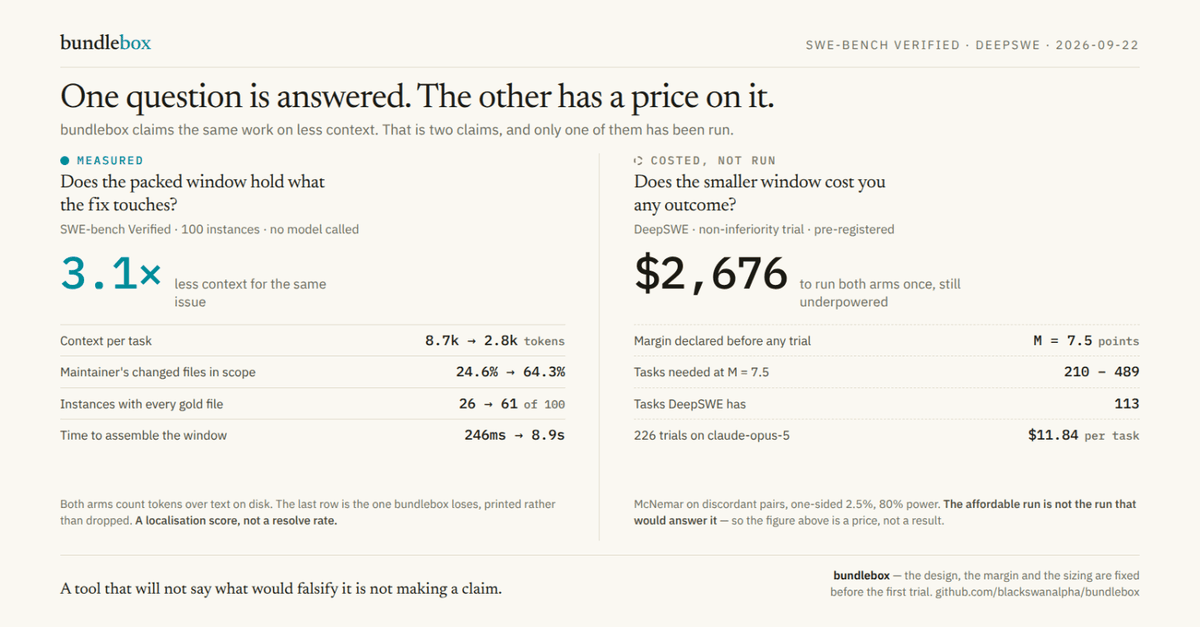
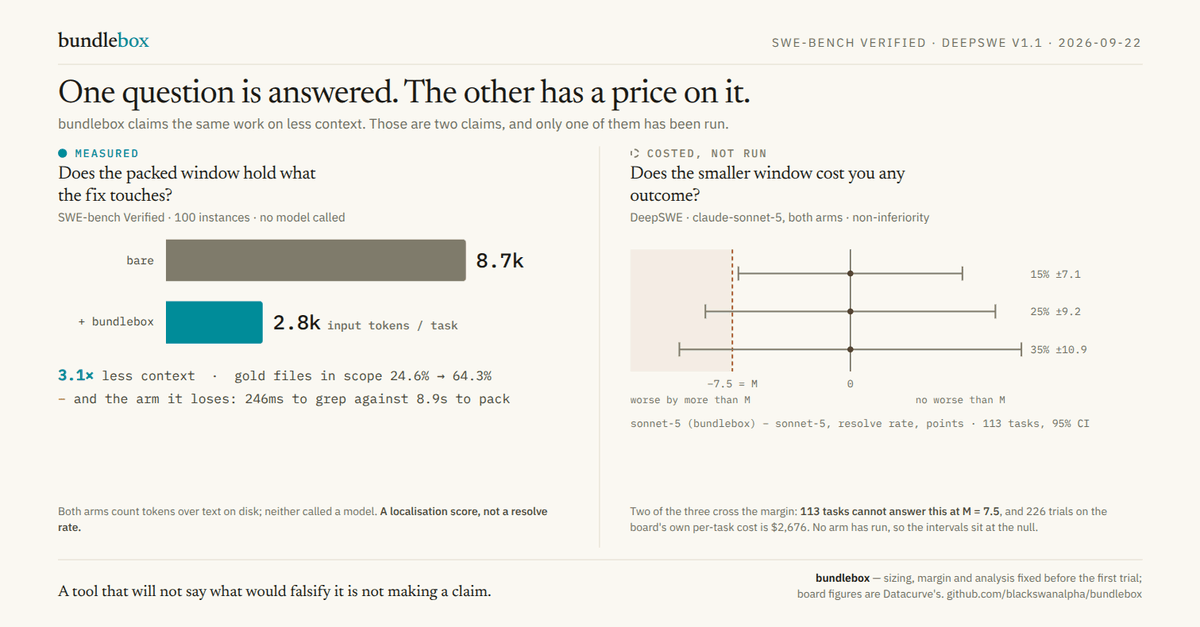
docs(marketing): post 8 gets the two charts its two claims need
The card carried two tables. A table lets a reader take a number off it, and
only one of the two columns has numbers to take.

Left is now a bar: 8.7k against 2.8k input tokens per task, SWE-bench Verified,
100 instances. A measured magnitude, drawn as one. It also carries the arm
bundlebox loses, 246ms to grep against 8.9s to pack.

Right is a non-inferiority plot, because there is no bundlebox row on DeepSWE
to bar-chart against claude-sonnet-5 and drawing one would invent the result
the post says costs $2,676. It plots what the declared design implies instead:
the margin at -7.5, and the 95% interval 113 tasks returns at three discordance
rates -- 7.1, 9.2 and 10.9 points. Two of the three cross the margin, which is
the finding. The intervals sit at the null because no arm has run.

The interval arithmetic is the sizing table read backwards:
1.96*sqrt(f/n) at n=113, from the same z and margin that give DESIGN.md's
210 / 349 / 489 at 80% power. Checked against all three rows.

claude-sonnet-5 at 54%+-4, $26.40, 214k, 268 steps confirmed against the live
board (v1.1, 113 tasks, 2026-09-22), which matches leaderboard.json. The board
column is OUTPUT tokens; the bar is INPUT context, so the two are labelled
apart and never multiplied together.

  1200x627, 77 KB, matching post-5 and post-7

diff --git a/marketing/post-8-two-questions-image.html b/marketing/post-8-two-questions-image.html
@@ -7,16 +7,16 @@
 <link rel="preconnect" href="https://fonts.gstatic.com" crossorigin>
 <link rel="stylesheet" href="https://fonts.googleapis.com/css2?family=IBM+Plex+Mono:wght@400;500&family=IBM+Plex+Sans:wght@400;500;600&family=Newsreader:opsz,wght@6..72,400;6..72,500&display=swap">
 <style>
-  /* The post-5/post-7 card, so the series reads as one thing. The colour does
-     one job here and it is not decoration: the accent marks the column that was
-     measured, the grey marks the one that was only costed. Identity is never
-     colour alone — each column carries its own STATUS word, its own rule style
-     (solid against dashed) and its own footer line, so the distinction survives
-     greyscale and survives a reader who cannot separate teal from grey.
+  /* The post-5/post-7 card. Two charts, and they are deliberately different
+     shapes because they are different kinds of claim: a measured magnitude is a
+     bar, an undecided difference is an interval against a margin. Drawing the
+     second one as a bar is what would let somebody read a result off it, and
+     there is no result to read.
 
-     Same contrast rule as post-7: figures wear ink, not accent. #008C99 on this
-     paper is 3.79:1 — fine for a 54px hero under the large-text rule, short of
-     4.5:1 for anything at body size. */
+     Colour never carries meaning alone. Each column has its own status word,
+     its own rule style (solid against dashed) and its own chart form, so the
+     distinction survives greyscale. Figures wear ink rather than the accent,
+     which is 3.79:1 on this paper. */
   :root {
     --paper: #FAF8F2;
     --ink: #191A14;
@@ -25,6 +25,7 @@
     --rule: #E0DACB;
     --accent: #008C99;
     --context: #7F7B6B;
+    --fail: #B04A28;
     --font-display: "Newsreader", Georgia, serif;
     --font-text: "IBM Plex Sans", Helvetica, sans-serif;
     --font-figure: "IBM Plex Mono", Consolas, monospace;
@@ -32,108 +33,126 @@
   * { box-sizing: border-box; }
   body { margin: 0; width: 1200px; height: 627px; background: var(--paper); color: var(--ink);
          font-family: var(--font-text); overflow: hidden; -webkit-font-smoothing: antialiased; }
-  .card { height: 100%; padding: 34px 60px 26px; display: flex; flex-direction: column; }
+  .card { height: 100%; padding: 32px 58px 24px; display: flex; flex-direction: column; }
 
-  .top { display: flex; align-items: baseline; justify-content: space-between; border-bottom: 1px solid var(--rule); padding-bottom: 12px; }
+  .top { display: flex; align-items: baseline; justify-content: space-between; border-bottom: 1px solid var(--rule); padding-bottom: 11px; }
   .mark { font-family: var(--font-display); font-size: 21px; font-weight: 500; letter-spacing: -0.01em; }
   .mark i { font-style: normal; color: var(--accent); }
   .kicker { font-size: 12px; letter-spacing: 0.14em; text-transform: uppercase; color: var(--muted); }
 
-  h1 { font-family: var(--font-display); font-size: 34px; line-height: 1.06; font-weight: 400;
-       letter-spacing: -0.02em; margin: 14px 0 3px; }
-  .sub { font-size: 14.5px; color: var(--muted); margin: 0 0 14px; max-width: 92ch; }
+  h1 { font-family: var(--font-display); font-size: 33px; line-height: 1.06; font-weight: 400;
+       letter-spacing: -0.02em; margin: 13px 0 3px; }
+  .sub { font-size: 14px; color: var(--muted); margin: 0 0 13px; }
 
-  .cols { display: grid; grid-template-columns: 1fr 1fr; gap: 0; flex: 1; min-height: 0; }
-  .col { padding: 0 34px; display: flex; flex-direction: column; }
+  .cols { display: grid; grid-template-columns: 1fr 1fr; flex: 1; min-height: 0; }
+  .col { padding: 0 30px; display: flex; flex-direction: column; }
   .col:first-child { padding-left: 0; border-right: 1px solid var(--rule); }
   .col:last-child { padding-right: 0; }
 
-  .status { font-family: var(--font-figure); font-size: 11.5px; letter-spacing: 0.13em; text-transform: uppercase;
-            display: inline-flex; align-items: center; gap: 8px; margin-bottom: 4px; }
-  .status b { font-weight: 500; }
+  .status { font-family: var(--font-figure); font-size: 11px; letter-spacing: 0.13em; text-transform: uppercase;
+            display: flex; align-items: center; gap: 8px; margin-bottom: 3px; }
   .dot { width: 9px; height: 9px; border-radius: 50%; display: inline-block; }
   .measured .dot { background: var(--accent); }
-  .measured b { color: var(--accent); }
+  .measured .status b { color: var(--accent); font-weight: 500; }
   .priced .dot { border: 1.5px dashed var(--context); }
-  .priced b { color: var(--context); }
+  .priced .status b { color: var(--context); font-weight: 500; }
 
-  .q { font-family: var(--font-display); font-size: 19px; line-height: 1.2; font-weight: 400;
-       letter-spacing: -0.012em; margin: 0 0 3px; max-width: 26ch; }
-  .where { font-size: 12.5px; color: var(--muted); margin: 0 0 13px; }
+  .q { font-family: var(--font-display); font-size: 18.5px; line-height: 1.2; font-weight: 400;
+       letter-spacing: -0.012em; margin: 0 0 2px; max-width: 27ch; }
+  .where { font-size: 12px; color: var(--muted); margin: 0 0 14px; }
 
-  .hero { display: flex; align-items: baseline; gap: 12px; margin-bottom: 2px; min-height: 50px; }
-  .hero b { font-family: var(--font-figure); font-size: 45px; font-weight: 500; line-height: 1;
-            letter-spacing: -0.03em; font-variant-numeric: tabular-nums; }
-  .measured .hero b { color: var(--accent); }
-  .priced .hero b { color: var(--ink); }
-  .hero span { font-size: 13.5px; color: var(--muted); line-height: 1.3; max-width: 21ch; }
+  /* left: a measured magnitude */
+  .bars { display: grid; gap: 20px; }
+  .brow { display: grid; grid-template-columns: 96px 1fr; align-items: center; gap: 12px; }
+  .brow .bl { font-family: var(--font-figure); font-size: 11.5px; color: var(--ink-2); text-align: right; }
+  .track { display: flex; align-items: center; gap: 10px; }
+  .bar { height: 42px; border-radius: 0 3px 3px 0; }
+  .bar.ctx { background: var(--context); }
+  .bar.acc { background: var(--accent); }
+  .bv { font-family: var(--font-figure); font-size: 20px; font-weight: 500; font-variant-numeric: tabular-nums; }
+  .bv em { font-style: normal; font-size: 11.5px; color: var(--muted); margin-left: 6px; }
+  .gain { margin-top: 18px; font-family: var(--font-figure); font-size: 13px; color: var(--ink-2); line-height: 1.75; }
+  .gain b { color: var(--accent); font-size: 15px; }
 
-  .lines { margin-top: 12px; border-top: 1px solid var(--rule); }
-  .priced .lines { border-top: 1px dashed var(--rule); }
-  .line { display: flex; justify-content: space-between; align-items: baseline; gap: 14px;
-          padding: 6.5px 0; border-bottom: 1px solid var(--rule); }
-  .priced .line { border-bottom: 1px dashed var(--rule); }
-  .line:last-child { border-bottom: 0; }
-  .line dt { font-size: 12.5px; color: var(--ink-2); line-height: 1.3; }
-  .line dd { margin: 0; font-family: var(--font-figure); font-size: 14px; font-weight: 500;
-             font-variant-numeric: tabular-nums; color: var(--ink); white-space: nowrap; }
-  .line dd em { font-style: normal; font-size: 11.5px; color: var(--muted); margin-left: 6px; }
-
-  .note { margin-top: auto; padding-top: 11px; font-size: 11.5px; line-height: 1.4; color: var(--muted); }
+  .note { margin-top: auto; padding-top: 10px; font-size: 11px; line-height: 1.4; color: var(--muted); }
   .note b { color: var(--ink-2); font-weight: 500; }
 
-  .foot { margin-top: 14px; padding-top: 12px; border-top: 1px solid var(--rule);
-          display: flex; align-items: flex-end; justify-content: space-between; gap: 40px; }
-  .foot .claim { font-family: var(--font-display); font-size: 16px; line-height: 1.28; max-width: 52ch; }
-  .foot .source { font-size: 11.5px; line-height: 1.45; color: var(--muted); text-align: right; white-space: nowrap; }
+  .foot { margin-top: 12px; padding-top: 11px; border-top: 1px solid var(--rule);
+          display: flex; align-items: flex-end; justify-content: space-between; gap: 36px; }
+  .foot .claim { font-family: var(--font-display); font-size: 15.5px; line-height: 1.28; max-width: 52ch; }
+  .foot .source { font-size: 11px; line-height: 1.45; color: var(--muted); text-align: right; white-space: nowrap; }
   .foot .source b { color: var(--ink); font-weight: 600; }
+
+  svg text { font-family: var(--font-figure); fill: var(--muted); }
 </style>
 </head>
 <body>
 <div class="card">
   <div class="top">
     <div class="mark">bundle<i>box</i></div>
-    <div class="kicker">SWE-bench Verified · DeepSWE · 2026-09-22</div>
+    <div class="kicker">SWE-bench Verified · DeepSWE v1.1 · 2026-09-22</div>
   </div>
 
   <h1>One question is answered. The other has a price on it.</h1>
-  <p class="sub">bundlebox claims the same work on less context. That is two claims, and only one of them has been run.</p>
+  <p class="sub">bundlebox claims the same work on less context. Those are two claims, and only one of them has been run.</p>
 
   <div class="cols">
     <div class="col measured">
       <div class="status"><span class="dot"></span><b>Measured</b></div>
       <p class="q">Does the packed window hold what the fix touches?</p>
       <p class="where">SWE-bench Verified · 100 instances · no model called</p>
-      <div class="hero"><b>3.1&times;</b><span>less context for the same issue</span></div>
-      <dl class="lines">
-        <div class="line"><dt>Context per task</dt><dd>8.7k &rarr; 2.8k<em>tokens</em></dd></div>
-        <div class="line"><dt>Maintainer's changed files in scope</dt><dd>24.6% &rarr; 64.3%</dd></div>
-        <div class="line"><dt>Instances with every gold file</dt><dd>26 &rarr; 61<em>of 100</em></dd></div>
-        <div class="line"><dt>Time to assemble the window</dt><dd>246ms &rarr; 8.9s</dd></div>
-      </dl>
-      <p class="note">Both arms count tokens over text on disk. The last row is the one bundlebox loses, printed rather than dropped. <b>A localisation score, not a resolve rate.</b></p>
+
+      <div class="bars">
+        <div class="brow">
+          <div class="bl">bare</div>
+          <div class="track"><div class="bar ctx" style="width:300px"></div><div class="bv">8.7k</div></div>
+        </div>
+        <div class="brow">
+          <div class="bl">+ bundlebox</div>
+          <div class="track"><div class="bar acc" style="width:97px"></div><div class="bv">2.8k<em>input tokens / task</em></div></div>
+        </div>
+      </div>
+      <div class="gain"><b>3.1&times;</b> less context &nbsp;·&nbsp; gold files in scope 24.6% → 64.3%<br>
+        <span style="color:var(--fail)">&minus;</span> and the arm it loses: 246ms to grep against 8.9s to pack</div>
+
+      <p class="note">Both arms count tokens over text on disk; neither called a model. <b>A localisation score, not a resolve rate.</b></p>
     </div>
 
     <div class="col priced">
       <div class="status"><span class="dot"></span><b>Costed, not run</b></div>
       <p class="q">Does the smaller window cost you any outcome?</p>
-      <p class="where">DeepSWE · non-inferiority trial · pre-registered</p>
-      <div class="hero"><b>$2,676</b><span>to run both arms once, still underpowered</span></div>
-      <dl class="lines">
-        <div class="line"><dt>Margin declared before any trial</dt><dd>M = 7.5<em>points</em></dd></div>
-        <div class="line"><dt>Tasks needed at M = 7.5</dt><dd>210 &ndash; 489</dd></div>
-        <div class="line"><dt>Tasks DeepSWE has</dt><dd>113</dd></div>
-        <div class="line"><dt>226 trials on claude-opus-5</dt><dd>$11.84<em>per task</em></dd></div>
-      </dl>
-      <p class="note">McNemar on discordant pairs, one-sided 2.5%, 80% power. <b>The affordable run is not the run that would answer it</b> — so the figure above is a price, not a result.</p>
+      <p class="where">DeepSWE · claude-sonnet-5, both arms · non-inferiority</p>
+
+      <svg viewBox="0 0 470 196" width="470" height="196" role="img"
+           aria-label="Non-inferiority plot. The margin is minus 7.5 points. At 113 tasks the 95% interval is plus or minus 7.1 points at 15% discordance, 9.2 at 25% and 10.9 at 35%, so two of the three cross the margin and cannot conclude.">
+        <rect x="0" y="10" width="102" height="122" fill="#B04A28" opacity="0.07"/>
+        <line x1="102" y1="10" x2="102" y2="132" stroke="#B04A28" stroke-width="1.5" stroke-dasharray="4 3"/>
+        <line x1="220" y1="10" x2="220" y2="132" stroke="#454738" stroke-width="1"/>
+        <text x="102" y="148" text-anchor="middle" font-size="10.5" fill="#B04A28">&minus;7.5 = M</text>
+        <text x="220" y="148" text-anchor="middle" font-size="10.5">0</text>
+        <text x="0" y="164" font-size="10" fill="#B04A28">worse by more than M</text>
+        <text x="330" y="164" text-anchor="middle" font-size="10">no worse than M</text>
+        <g stroke="#7F7B6B" stroke-width="1.6">
+          <line x1="108" y1="34" x2="332" y2="34"/><line x1="108" y1="27" x2="108" y2="41"/><line x1="332" y1="27" x2="332" y2="41"/>
+          <line x1="75"  y1="72" x2="365" y2="72"/><line x1="75"  y1="65" x2="75"  y2="79"/><line x1="365" y1="65" x2="365" y2="79"/>
+          <line x1="49"  y1="110" x2="391" y2="110"/><line x1="49" y1="103" x2="49" y2="117"/><line x1="391" y1="103" x2="391" y2="117"/>
+        </g>
+        <g fill="#454738"><circle cx="220" cy="34" r="3"/><circle cx="220" cy="72" r="3"/><circle cx="220" cy="110" r="3"/></g>
+        <text x="400" y="38" font-size="10.5">15% &plusmn;7.1</text>
+        <text x="400" y="76" font-size="10.5">25% &plusmn;9.2</text>
+        <text x="400" y="114" font-size="10.5">35% &plusmn;10.9</text>
+        <text x="0" y="188" font-size="10.5">sonnet-5 (bundlebox) &minus; sonnet-5, resolve rate, points · 113 tasks, 95% CI</text>
+      </svg>
+
+      <p class="note">Two of the three cross the margin: <b>113 tasks cannot answer this at M = 7.5</b>, and 226 trials on the board's own per-task cost is $2,676. No arm has run, so the intervals sit at the null.</p>
     </div>
   </div>
 
   <div class="foot">
     <div class="claim">A tool that will not say what would falsify it is not making a claim.</div>
     <div class="source">
-      <b>bundlebox</b> — the design, the margin and the sizing are fixed<br>
-      before the first trial. github.com/blackswanalpha/bundlebox
+      <b>bundlebox</b> — sizing, margin and analysis fixed before the first trial;<br>
+      board figures are Datacurve's. github.com/blackswanalpha/bundlebox
     </div>
   </div>
 </div>
